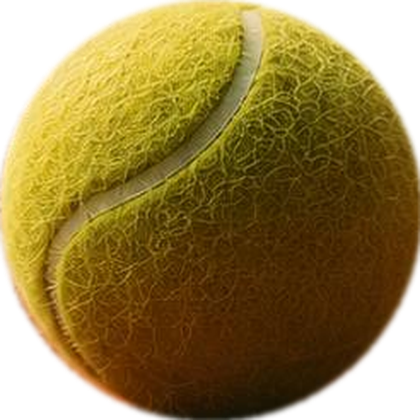
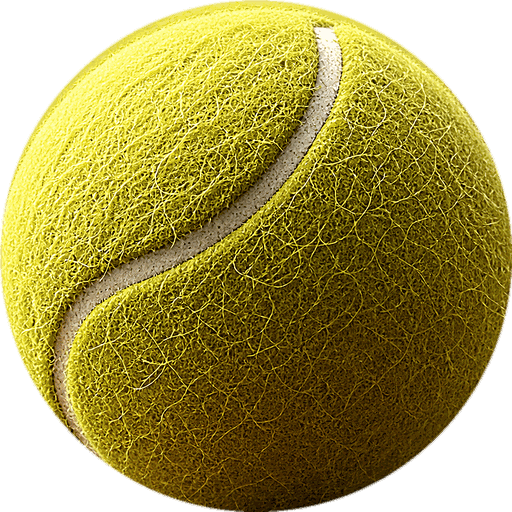
Use the supplied ball photo, and make the asset pipeline reproducible
The ball shot that was sitting in the project root is a far better source than
the one cropped out of the design mock-up: 1536x1024 against 265px, with the
felt fibres actually resolved.

- Cut it at the felt edge rather than the glow. The edge was measured by local
  luminance variance along the centre lines — felt has texture, the glow around
  it does not — which put the circle at (762, 478) r=445.
- Sharpen the fibres, take the render's neon yellow down, lift contrast a touch.
- Quantise to 192 colours: 136 KB instead of 601 KB, with no banding at any
  size the app draws, and 512px is exactly the largest use (168pt hero) at @3x.
- scripts/build-assets.py rebuilds every image in assets/images/ from the source
  art in docs/reference/, so replacing a source is a one-command job.
- Source art moved into docs/reference/ and committed (the file was untracked in
  the project root, and had a .jpeg extension over PNG data).

diff --git a/scripts/build-assets.py b/scripts/build-assets.py
@@ -1,0 +1,95 @@
+# -*- coding: utf-8 -*-
+"""
+Rebuild the app's image assets from the source art in docs/reference/.
+
+Run after replacing any source image:
+
+    python scripts/build-assets.py
+
+Sources
+  design-reference-home.jpg  the design mock-up — clay court band, icon texture
+  ball-source.png            the tennis ball shot, on black with a glow
+
+Everything it writes lives in assets/images/ and is committed.
+"""
+from PIL import Image, ImageDraw, ImageEnhance, ImageFilter, ImageFont
+
+REF = 'docs/reference/design-reference-home.jpg'
+BALL_SRC = 'docs/reference/ball-source.png'
+OUT = 'assets/images'
+FONT = 'node_modules/@expo-google-fonts/inter-tight/700Bold/InterTight_700Bold.ttf'
+
+GOLD = (232, 200, 120)
+CREAM = (245, 240, 234)
+BASE = (20, 16, 13)
+
+# The felt edge inside the source glow, measured by local texture variance.
+BALL_CX, BALL_CY, BALL_R = 762, 478, 445
+# 512 is exactly the largest on-screen use (168pt in the hero) at @3x.
+BALL_SIZE = 512
+
+
+def build_ball():
+    im = Image.open(BALL_SRC).convert('RGB')
+    crop = im.crop((BALL_CX - BALL_R, BALL_CY - BALL_R, BALL_CX + BALL_R, BALL_CY + BALL_R))
+
+    mask = Image.new('L', crop.size, 0)
+    ImageDraw.Draw(mask).ellipse((1, 1, crop.size[0] - 1, crop.size[1] - 1), fill=255)
+    mask = mask.filter(ImageFilter.GaussianBlur(1.4))
+
+    # Bring out the individual fibres and calm the neon yellow of the render.
+    out = crop.filter(ImageFilter.UnsharpMask(radius=2.2, percent=150, threshold=2))
+    out = ImageEnhance.Color(out).enhance(0.86)
+    out = ImageEnhance.Contrast(out).enhance(1.08)
+    out.putalpha(mask)
+    out = out.resize((BALL_SIZE, BALL_SIZE), Image.LANCZOS)
+    # Felt texture compresses badly as truecolour PNG: ~600 KB against ~130 KB
+    # quantised, with no banding visible at any size the app draws it.
+    out.quantize(colors=192, method=Image.FASTOCTREE).save(OUT + '/ball.png', optimize=True)
+    print('ball.png')
+
+
+def build_hero_and_icon():
+    im = Image.open(REF).convert('RGB')
+
+    # Clay band from below the mock-up's own logo and tagline.
+    im.crop((0, 292, 853, 528)).resize((1200, 332), Image.LANCZOS).save(
+        OUT + '/hero-clay.jpg', quality=92)
+    print('hero-clay.jpg')
+
+    icon = im.crop((60, 330, 470, 520)).resize((1024, 1024), Image.LANCZOS)
+    icon = Image.blend(icon, Image.new('RGB', icon.size, BASE), 0.55)
+    d = ImageDraw.Draw(icon)
+    f = ImageFont.truetype(FONT, 520)
+    box = d.textbbox((0, 0), 'GS', font=f)
+    d.text(((1024 - (box[2] - box[0])) / 2 - box[0], (1024 - (box[3] - box[1])) / 2 - box[1]),
+           'GS', font=f, fill=GOLD)
+    icon.save(OUT + '/icon.png')
+    icon.resize((432, 432), Image.LANCZOS).save(OUT + '/android-icon-foreground.png')
+    print('icon.png')
+
+    Image.new('RGB', (48, 48), BASE).save(OUT + '/favicon.png')
+    Image.new('RGB', (432, 432), BASE).save(OUT + '/android-icon-background.png')
+
+
+def build_wordmark(width=1200, height=300, size=170, gap=34):
+    """GOLDEN in gold, SET in cream — the splash lockup."""
+    img = Image.new('RGBA', (width, height), (0, 0, 0, 0))
+    d = ImageDraw.Draw(img)
+    font = ImageFont.truetype(FONT, size)
+    wa = d.textlength('GOLDEN', font=font)
+    wb = d.textlength('SET', font=font)
+    x = (width - (wa + gap + wb)) / 2
+    box = font.getbbox('GOLDEN')
+    y = (height - (box[3] - box[1])) / 2 - box[1]
+    d.text((x, y), 'GOLDEN', font=font, fill=GOLD)
+    d.text((x + wa + gap, y), 'SET', font=font, fill=CREAM)
+    img.save(OUT + '/splash-icon.png')
+    print('splash-icon.png')
+
+
+if __name__ == '__main__':
+    build_ball()
+    build_hero_and_icon()
+    build_wordmark()
+    print('done')

diff --git a/docs/PLAN.md b/docs/PLAN.md
@@ -1,7 +1,9 @@
 # Golden Set — план розробки мобільного додатку (iOS + Android)
 
 > Дата плану: 18.08.2026
-> Референс дизайну: `5436043959869315807.jpg` (у корені проєкту)
+> Референс дизайну: `docs/reference/design-reference-home.jpg`
+> Вихідне зображення м'яча: `docs/reference/ball-source.png`
+> Ассети збираються з них скриптом `scripts/build-assets.py`
 > Автор проєкту: новачок у програмуванні, працює на Windows у VS Code разом з Claude Code
 
 ---

diff --git a/AGENTS.md b/AGENTS.md
@@ -58,7 +58,8 @@ src/components/ui/  the design system: Text, Button, Card, Avatar, NtrpBadge,
 src/lib/        supabase client
 src/i18n/       i18next setup + locales/en.json, locales/uk.json
 docs/PLAN.md    the plan: stack, data model, rating maths, phases, branding
-docs/reference/ design reference images
+docs/reference/ source art: the design mock-up and the ball shot
+scripts/build-assets.py  regenerates everything in assets/images/ from that source art
 ```
 
 ## Commands
